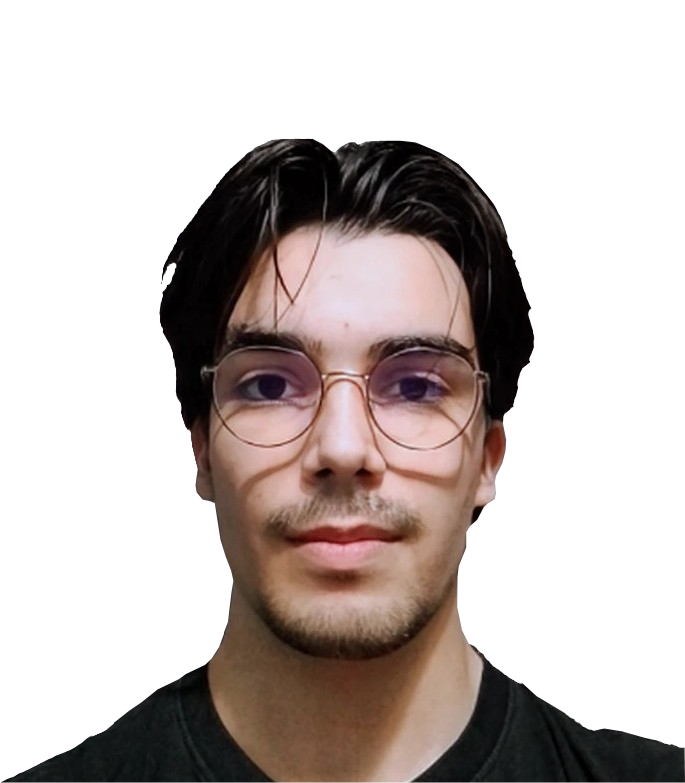
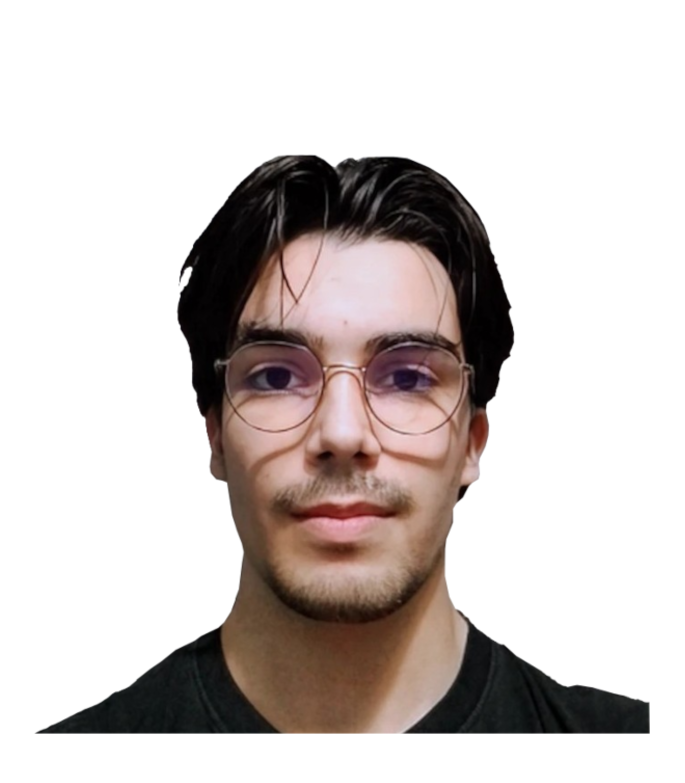
Update

Changed region(s): [[0.0, 0.1533, 1.0, 1.0]]

diff --git a/index.html b/index.html
@@ -27,12 +27,12 @@
             <ul class="navlist">
                 <li><a href="#home">Home</a></li>
                 <li><a href="#about">About</a></li>
-                <li><a href="#services">Services</a></li>
+                <li><a href="#services">Skills</a></li>
                 <li><a href="#portfolio">Portfolio</a></li>
             </ul>
 
             <div class="top-btn">
-                <a href="#" class="h-btn">Contact me</a>
+                <a href="#about" class="h-btn">Contact me</a>
             </div>
 
         </header>
@@ -57,7 +57,7 @@
                 <img src="img/about.png">
             </div>
             <div class="about-text" data-aos="zoom-in-up">
-                <h2>I am a Junior Game <span>Developer</span> <br> & Multiplatform Programmer</h2>
+                <h2>I am a Junior Game <span>Developer</span> <br> & Multiplatform <span>Programmer</span></h2>
                 <div class="exp-area">
                     <p class="exp">
                         Specialty:
@@ -86,7 +86,7 @@
 
 
                 </div>
-                <a href="#" class="btn">View All Projects</a>
+                <a href="#portfolio" class="btn">View All Projects</a>
             </div>
         </section>
 

diff --git a/css/style.css b/css/style.css
@@ -200,9 +200,9 @@ header.sticky{
 }
 
 .about-img img{
-    width: 100%;
-    height: 530px;
-    max-width: 530px;
+    width: 90%;
+    height: 477px;
+    max-width: 477px;
     border-radius: 50%;
     object-fit: cover;
     border: 7px solid var(--main-color);

diff --git a/js/script.js b/js/script.js
@@ -2,7 +2,7 @@ const header = document.querySelector("header");
 
 window.addEventListener ("scroll", function(){
 
-    header.classList.toggle ("sticky", window.scrollY > 120);
+    header.classList.toggle ("sticky", window.scrollY > 100);
 
 });
 
